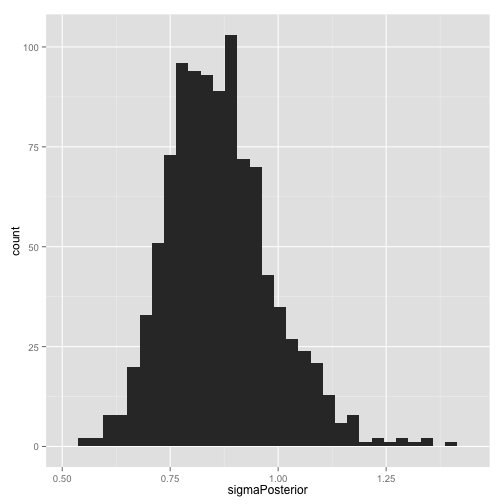
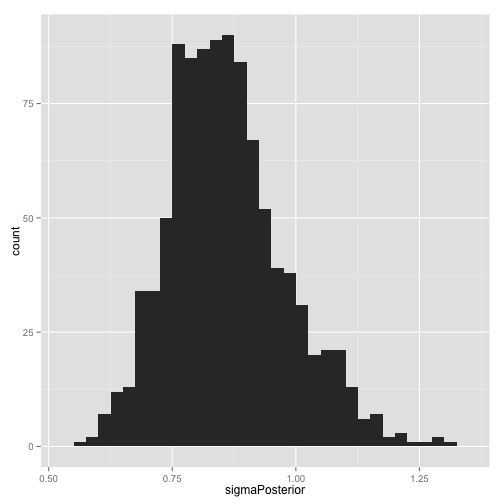
makefile, title, readme, etc

diff --git a/index.html b/index.html
@@ -14,7 +14,7 @@ title: "Posts"
 
 {% if post.content contains '<!--more-->' %}
     {{ post.content | split:'<!--more-->' | first }}
-        <p><a href="{{ post.url }}">(more)</a></p>
+        <p><a href="{{ post.url }}">(...click here for the rest of this post)</a></p>
 {% else %}
     <!-- Case for when no excerpt is defined -->
     {{ post.content }}

diff --git a/_posts/2014-07-06-bart-machine-simple-examples-discrete.md b/_posts/2014-07-06-bart-machine-simple-examples-discrete.md
@@ -1,15 +1,11 @@
 ---
+title: "Bayesian Trees: Looking for Sensible Results in Simple Examples"
 layout: post
 category: posts
 draft: true
 ---
+  
 
-
-```r
-library(ggplot2)
-library(plyr)
-library(bartMachine)
-```
 
 
 # Simplest possible example:
@@ -32,6 +28,7 @@ bartFit <- bartMachine(X = train, y = y)
 
 ```
 ## bartMachine initializing with 50 trees...
+## Java initialized with 1.14GB maximum memory (the default).
 ## Now building bartMachine for regression ...
 ## evaluating in sample data...done
 ```
@@ -52,7 +49,7 @@ mean(sigmaPosterior)
 ```
 
 ```
-## [1] 0.8657
+## [1] 0.8619
 ```
 
 ```r
@@ -85,6 +82,8 @@ ggplot(sampleDF) + geom_histogram(aes(fill = factor(X1), x = SampleY))
 
 ![plot of chunk unnamed-chunk-4](/images/posts/bart-machine-simple-examples-discrete/unnamed-chunk-42.png) 
 
+
+<!--more-->
 
 
 # A little bit more noise shows the difference between one tree and two trees more clearly
@@ -199,9 +198,9 @@ bartMachine:::get_tree_depths(bartFitByNumTrees[["100"]])[1, ]
 ```
 
 ```
-##   [1] 1 1 1 2 1 2 1 1 1 1 1 1 1 2 1 1 1 1 1 1 1 0 2 1 1 2 1 2 1 2 1 2 2 2 1
-##  [36] 2 1 1 2 1 2 2 1 1 1 1 1 2 2 2 1 1 1 1 1 2 1 2 1 1 2 1 2 2 1 1 2 1 2 1
-##  [71] 1 2 2 1 2 1 2 2 1 1 1 1 1 1 1 0 1 1 2 1 1 2 2 2 1 1 1 1 1 2
+##   [1] 1 2 1 2 2 2 1 2 2 1 1 2 1 1 1 1 1 2 1 1 1 1 2 2 2 1 1 2 1 1 1 1 1 1 1
+##  [36] 1 1 1 1 1 1 1 2 2 2 1 1 1 1 1 1 1 1 1 2 0 1 2 1 1 2 1 1 2 1 2 1 1 1 1
+##  [71] 2 2 1 1 1 2 1 2 1 2 1 2 1 1 1 1 2 1 1 2 2 1 1 1 1 1 2 1 2 1
 ```
 
 

diff --git a/post_source/README.md b/post_source/README.md
@@ -1,0 +1,5 @@
+Here are blog posts in their source form, mostly markdown + code.
+
+For Julia, I used [Judo](https://github.com/dcjones/Judo.jl) to compile the markdown + Julia. The bash script `judoblog` in this directory is a small helper.
+
+For R, I'm using `knitr` to execute `Rmd` files. The R script `RmdToPost.R` in this directory is a smaller helper. The makefile says everything you need to know. (I wasn't using a makefile yet when I wrote the post with Julia.)
